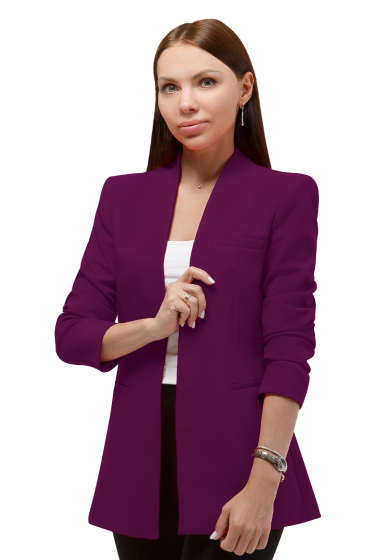
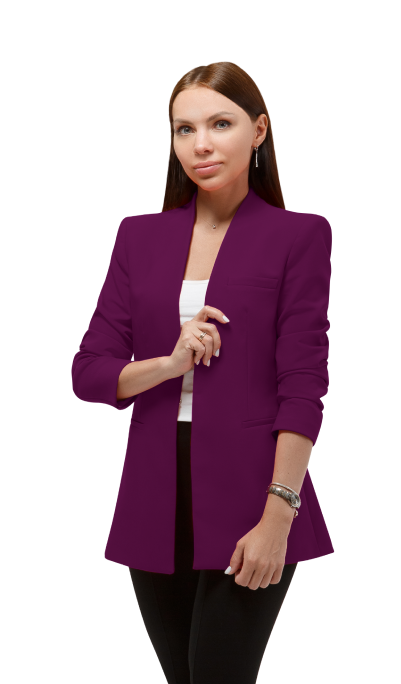
fix: adaptive for 768px

Changed region(s): [[0.1224, 0.0304, 0.8571, 1.0], [0.6429, 0.4554, 0.7041, 0.5768]]

diff --git a/web/css/price.css b/web/css/price.css
@@ -1,5 +1,6 @@
 .price-container-img {
     z-index: -1;
+    width: 800px;
 }
 
 .price-container .heading-container {
@@ -32,9 +33,18 @@
     min-width: 143px;
 }
 
+.price-list {
+    margin-bottom: 120px;
+}
+
 @media (max-width: 1024px) {
     .price-image {
         max-width: 415px;
+    }
+
+    .price-container-img {
+        width: 400px;
+        top: -170px;
     }
 }
 
@@ -52,5 +62,23 @@
     .services-price-list-item {
         align-items: start;
         width: 450px;
+    }
+
+    .price-container-img {
+        width: 400px;
+        top: unset;
+    }
+
+    .price-list {
+        max-width: 350px;
+    }
+
+    .price-image {
+        position: absolute;
+        bottom: 0;
+    }
+
+    .price-container .heading-container {
+        padding-bottom: 360px;
     }
 }

diff --git a/web/css/main.css b/web/css/main.css
@@ -38,6 +38,7 @@
 .round-main {
     z-index: -1;
     width: 778px;
+    bottom: 0;
 }
 
 .main-background {
@@ -170,5 +171,26 @@
 @media (max-width: 1024px) {
     .services-item {
         max-width: 350px;
+    }
+
+    .round-main {
+        width: 355px;
+        top: -150px;
+    }
+}
+
+@media (max-width: 992px) {
+    .round-main {
+        top: 250px;
+        width: 400px;
+    }
+
+    .main-heading-image {
+        position: absolute;
+        bottom: 0;
+    }
+
+    .main-advantage {
+        margin-bottom: 500px;
     }
 }

diff --git a/web/css/service.css b/web/css/service.css
@@ -3,7 +3,7 @@
 }
 
 .service-container .main-heading {
-    margin-bottom: 232px;
+    padding-bottom: 232px;
 }
 
 .sub-heading {
@@ -33,8 +33,22 @@
     max-width: 635px;
 }
 
+.half-circle {
+    width: 625px;
+}
+
+@media (max-width: 1024px) {
+    .service-container .main-heading {
+        padding-bottom: 120px;
+    }
+
+    .half-circle {
+        width: 380px;
+    }
+}
+
 @media (max-width: 992px) {
     .service-container .main-heading {
-        margin-bottom: 64px;
+        padding-bottom: 64px;
     }
 }

diff --git a/web/css/contacts.css b/web/css/contacts.css
@@ -10,6 +10,17 @@
     max-width: 445px;
 }
 
+.contacts-map {
+    width: 635px;
+}
+
+@media (max-width: 1024px) {
+    .contacts .round-main {
+        width: 430px;
+        top: -140px;
+    }
+}
+
 @media (max-width: 992px) {
     .contacts .input-consultation-form {
         max-width: 350px;
@@ -32,5 +43,10 @@
     .contacts-map {
         width: 400px;
         height: 300px;
+    }
+
+    .contacts .round-main {
+        width: 400px;
+        top: unset;
     }
 }

diff --git a/web/css/about-us.css b/web/css/about-us.css
@@ -32,6 +32,10 @@
     .lawyers-image {
         max-width: 210px;
     }
+
+    .about-us .round-main {
+        top: unset;
+    }
 }
 
 @media (max-width: 992px) {
@@ -45,5 +49,10 @@
 
     .supervisor-image {
         max-width: 350px;
+    }
+
+    .about-us .round-main {
+        max-height: 540px;
+        width: unset;
     }
 }

diff --git a/views/site/about-us.php b/views/site/about-us.php
@@ -3,32 +3,38 @@
 
 $this->title = 'О компании | Maxim Консалтинг';
 ?>
-<div class="main-container">
-    <section class="about-us">
-        <div class="main-heading d-flex flex-column flex-lg-row align-items-end">
-            <div class="heading-container body-m-400">
-                <h1 class="heading header-xl-700">
-                    О компании
-                </h1>
-                <p class="mt-5 price-paragraph">
-                    Главная задача — качественные и профессиональные юридические услуги.
-                    В нашей команде нет менеджеров и стажеров, только эксперты
-                    с многолетним опытом в своей области. Мы стараемся решить вопросы клиента, сэкономив его время и
-                    деньги.
-                </p>
-                <p class="price-paragraph">
-                    Не даем гарантии успеха, пока не изучим вопрос, прогноз решения делаем только после детального
-                    рассмотрения документов.
-                    На все время работы с вами остается персональный юрист: за его плечами опыт в похожей ситуации. Он
-                    сообщает даже о небольших промежуточных итогах, потому что мы понимаем, как важна обратная связь.
-                </p>
+<div class="round-container position-relative">
+    <div class="main-container">
+        <section class="about-us">
+            <div class="main-heading d-flex flex-column flex-lg-row align-items-end">
+                <div class="heading-container body-m-400">
+                    <h1 class="heading header-xl-700">
+                        О компании
+                    </h1>
+                    <p class="mt-5 price-paragraph">
+                        Главная задача — качественные и профессиональные юридические услуги.
+                        В нашей команде нет менеджеров и стажеров, только эксперты
+                        с многолетним опытом в своей области. Мы стараемся решить вопросы клиента, сэкономив его время и
+                        деньги.
+                    </p>
+                    <p class="price-paragraph">
+                        Не даем гарантии успеха, пока не изучим вопрос, прогноз решения делаем только после детального
+                        рассмотрения документов.
+                        На все время работы с вами остается персональный юрист: за его плечами опыт в похожей ситуации.
+                        Он
+                        сообщает даже о небольших промежуточных итогах, потому что мы понимаем, как важна обратная
+                        связь.
+                    </p>
+                </div>
+                <img class="about-us-image" src="<?= Yii::getAlias('@web/images/1D9A2676-Edit.png') ?>" alt="">
+                <img class="round-main position-absolute bottom-0 end-0"
+                     src="<?= Yii::getAlias('@web/images/Round.png') ?>"
+                     alt="">
             </div>
-            <img class="about-us-image" src="<?= Yii::getAlias('@web/images/1D9A2676-Edit.png') ?>" alt="">
-            <!--            <img class="round-main position-absolute top-0 end-0" src="--><?php
-            //= Yii::getAlias('@web/images/Round.png') ?><!--"-->
-            <!--                 alt="">-->
-        </div>
-    </section>
+        </section>
+    </div>
+</div>
+<div class="main-container">
     <section class="supervisor">
         <h2 class="heading header-l-700">Руководитель</h2>
         <div class="supervisor-info d-flex flex-column-reverse flex-lg-row">

diff --git a/views/site/index.php b/views/site/index.php
@@ -4,26 +4,29 @@
 
 $this->title = 'Юридические услуги | Maxim Consulting';
 ?>
-<section class="section-main main-heading main-container d-flex flex-column flex-lg-row">
-    <div class="main-advantage">
-        <div class="heading-container">
-            <h1 class="heading header-xl-700">Юридические услуги</h1>
-            <p class="heading-container-paragraph subheader-xl-600">для частных лиц и бизнеса</p>
+<div class="round-container position-relative">
+    <section class="section-main main-heading main-container d-flex flex-column flex-lg-row">
+        <div class="main-advantage">
+            <div class="heading-container">
+                <h1 class="heading header-xl-700">Юридические услуги</h1>
+                <p class="heading-container-paragraph subheader-xl-600">для частных лиц и бизнеса</p>
+            </div>
+            <ul class="small-description-list p-0 list-group body-xl-400">
+                <li class="list-item position-relative">Консультация и аудит</li>
+                <li class="list-item position-relative">Подготовка документов</li>
+                <li class="list-item position-relative">Сопровождение под ключ</li>
+            </ul>
+            <button class="btn-request btn-request-primary btn-request-primary-outline body-m-400 d-block d-lg-none mt-5"
+                    data-bs-toggle="modal"
+                    data-bs-target="#exampleModal">Оставить заявку
+            </button>
         </div>
-        <ul class="small-description-list p-0 list-group body-xl-400">
-            <li class="list-item position-relative">Консультация и аудит</li>
-            <li class="list-item position-relative">Подготовка документов</li>
-            <li class="list-item position-relative">Сопровождение под ключ</li>
-        </ul>
-        <button class="btn-request btn-request-primary btn-request-primary-outline body-m-400 d-block d-lg-none mt-5"
-                data-bs-toggle="modal"
-                data-bs-target="#exampleModal">Оставить заявку
-        </button>
-    </div>
-    <img class="main-heading-image"
-         src="<?= Yii::getAlias('@web/images/1D9A2784.png') ?>" alt="">
-    <img class="round-main position-absolute top-0 end-0" src="<?= Yii::getAlias('@web/images/Round.png') ?>" alt="">
-</section>
+        <img class="main-heading-image"
+             src="<?= Yii::getAlias('@web/images/1D9A2784.png') ?>" alt="">
+        <img class="round-main position-absolute end-0" src="<?= Yii::getAlias('@web/images/Round.png') ?>"
+             alt="">
+    </section>
+</div>
 <section class="main-services main-background">
     <div class="main-container">
         <?= $this->render('_services') ?>
@@ -33,7 +36,7 @@ $this->title = 'Юридические услуги | Maxim Consulting';
 <section class="main-company-info">
     <div class="main-container">
         <h2 class="heading header-l-700">
-            Сложные проблемы -
+            Сложные проблемы — <br>
             простое решение
         </h2>
         <div class="main-company-description d-flex justify-content-between flex-column flex-lg-row">

diff --git a/views/site/service.php b/views/site/service.php
@@ -3,20 +3,23 @@
 
 $this->title = 'Банкротство физических лиц | Maxim Консалтинг';
 ?>
-
-<section class="service-container">
-    <div class="main-heading main-container">
-        <div class="heading-container">
-            <h1 class="heading header-xl-700">Банкротство физических лиц</h1>
-            <p class="sub-heading body-xl-400">
-                Защита от звонков коллекторов, снятие ареста с имущества, сопровождение дела в
-                суде и
-                списание долга.
-            </p>
+<div class="round-container position-relative">
+    <section class="service-container">
+        <div class="main-heading main-container">
+            <div class="heading-container">
+                <h1 class="heading header-xl-700">Банкротство физических лиц</h1>
+                <p class="sub-heading body-xl-400">
+                    Защита от звонков коллекторов, снятие ареста с имущества, сопровождение дела в
+                    суде и
+                    списание долга.
+                </p>
+            </div>
+            <img class="position-absolute bottom-0 end-0 half-circle d-none d-lg-block"
+                 src="<?= Yii::getAlias('@web/images/half-circle.png') ?>"
+                 alt="">
         </div>
-        <img class="position-absolute top-0 end-0" src="<?= Yii::getAlias('@web/images/half-circle.png') ?>" alt="">
-    </div>
-</section>
+    </section>
+</div>
 <section class="submit-application main-background">
     <div class="main-container">
         <?= $this->render('_send-request') ?>

diff --git a/views/layouts/contacts.php b/views/layouts/contacts.php
@@ -125,14 +125,15 @@ $this->beginBody() ?>
                     </div>
                     <div class="contacts-social-networks">
                         <a class="me-3" href="tel:89125225131"><img
-                                    src="<?= Yii::getAlias('@web/images/whatsapp.png') ?>"
+                                    src="<?= Yii::getAlias('@web/images/icons/whatsapp.png') ?>"
                                     alt=""></a>
-                        <a class="me-3" href="tel:89125225131"><img src="<?= Yii::getAlias('@web/images/viber.png') ?>"
-                                                                    alt=""></a>
+                        <a class="me-3" href="tel:89125225131"><img
+                                    src="<?= Yii::getAlias('@web/images/icons/viber.png') ?>"
+                                    alt=""></a>
                         <a class="me-3" href="https://t.me/Klevtsur_Oleg"><img
-                                    src="<?= Yii::getAlias('@web/images/telegram.png') ?>" alt=""></a>
+                                    src="<?= Yii::getAlias('@web/images/icons/telegram.png') ?>" alt=""></a>
                         <a class="me-3" href="https://vk.com/legalexpert_kurgan"><img
-                                    src="<?= Yii::getAlias('@web/images/vk.png') ?>" alt=""></a>
+                                    src="<?= Yii::getAlias('@web/images/icons/vk.png') ?>" alt=""></a>
                     </div>
                 </div>
                 <div class="contacts-map" style="position:relative;overflow:hidden;">

diff --git a/views/site/price.php b/views/site/price.php
@@ -4,20 +4,20 @@
 $this->title = 'Стоимость юридических услуг | Maxim Консалтинг'
 ?>
 
-<section class="price-container">
+<section class="price-container position-relative">
     <div class="main-container">
         <div class="main-heading d-flex flex-column flex-lg-row align-items-end justify-content-between">
             <div class="heading-container body-xl-400">
                 <h1 class="heading header-xl-700">Стоимость <br> юридических услуг</h1>
                 <p class="sub-heading">Что может влиять на цены:</p>
-                <ul class="list-group" style="margin-bottom: 120px">
+                <ul class="list-group price-list" style="margin-bottom: 120px">
                     <li class="list-item position-relative">сложность дела,</li>
                     <li class="list-item position-relative">правовая отрасль,</li>
                     <li class="list-item position-relative">доказательная база и стадия судебного процесса.</li>
                 </ul>
             </div>
             <img class="price-image" src="<?= Yii::getAlias('@web/images/1D9A2938 .png') ?>" alt="">
-            <img class="position-absolute price-container-img top-0 end-0"
+            <img class="position-absolute price-container-img bottom-0 end-0"
                  src="<?= Yii::getAlias('@web/images/Round.png') ?>" alt="">
         </div>
     </div>

diff --git a/views/site/contacts.php b/views/site/contacts.php
@@ -6,15 +6,14 @@ use app\components\ConsultationFeedbackFormWidget;
 $this->title = 'Контакты | Maxim Консалтинг';
 ?>
 
-<section class="contacts">
-    <div class="main-heading main-container d-flex justify-content-between position-relative">
+<section class="contacts position-relative">
+    <div class="main-heading main-container d-flex justify-content-between">
         <div class="heading-container">
-            <h1 class="heading header-xl-700 w-100 mb-5 mb-lg-0">Оставьте заявку <br> на консультацию</h1>
+            <h1 class="heading header-l-700 w-100 mb-5 mb-lg-0">Оставьте заявку <br> на консультацию</h1>
             <?= ConsultationFeedbackFormWidget::widget() ?>
         </div>
         <img class="contacts-image" src="<?= Yii::getAlias('@web/images/1D9A2765.png') ?>" alt="">
-        <!--        <img class="round-main position-absolute top-0 end-0" src="--><?php
-        //= Yii::getAlias('@web/images/Round.png') ?><!--"-->
-        <!--             alt="">-->
+        <img class="round-main position-absolute bottom-0 end-0" src="<?= Yii::getAlias('@web/images/Round.png') ?>"
+             alt="">
     </div>
 </section>
